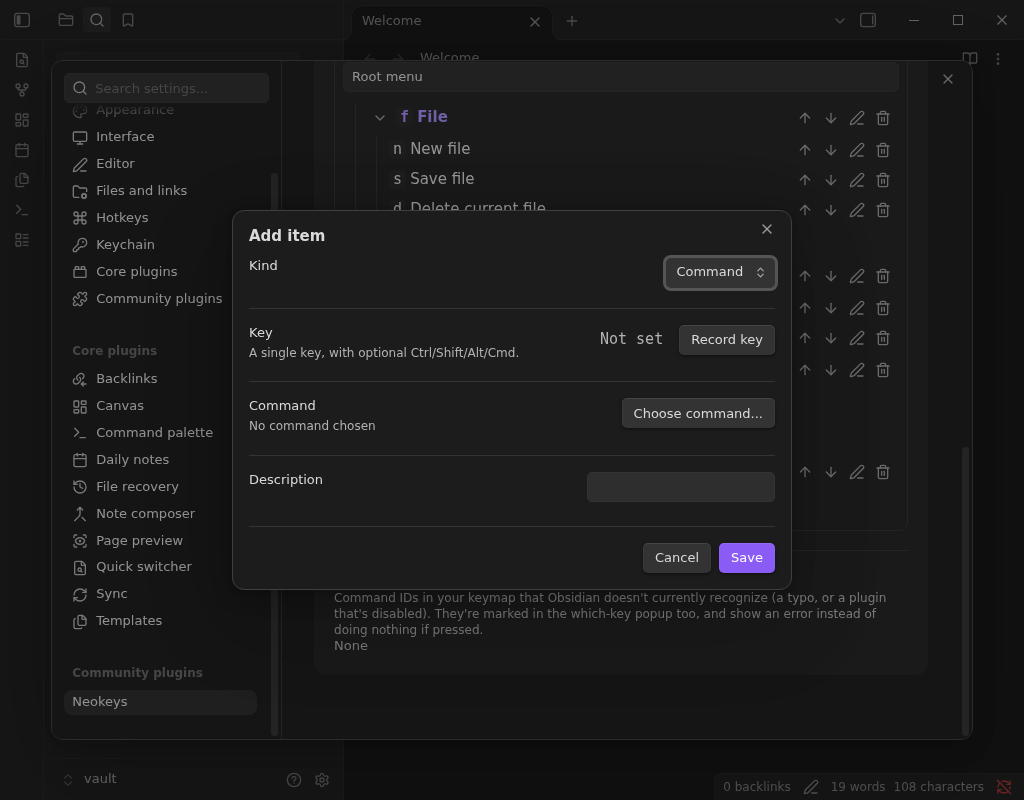
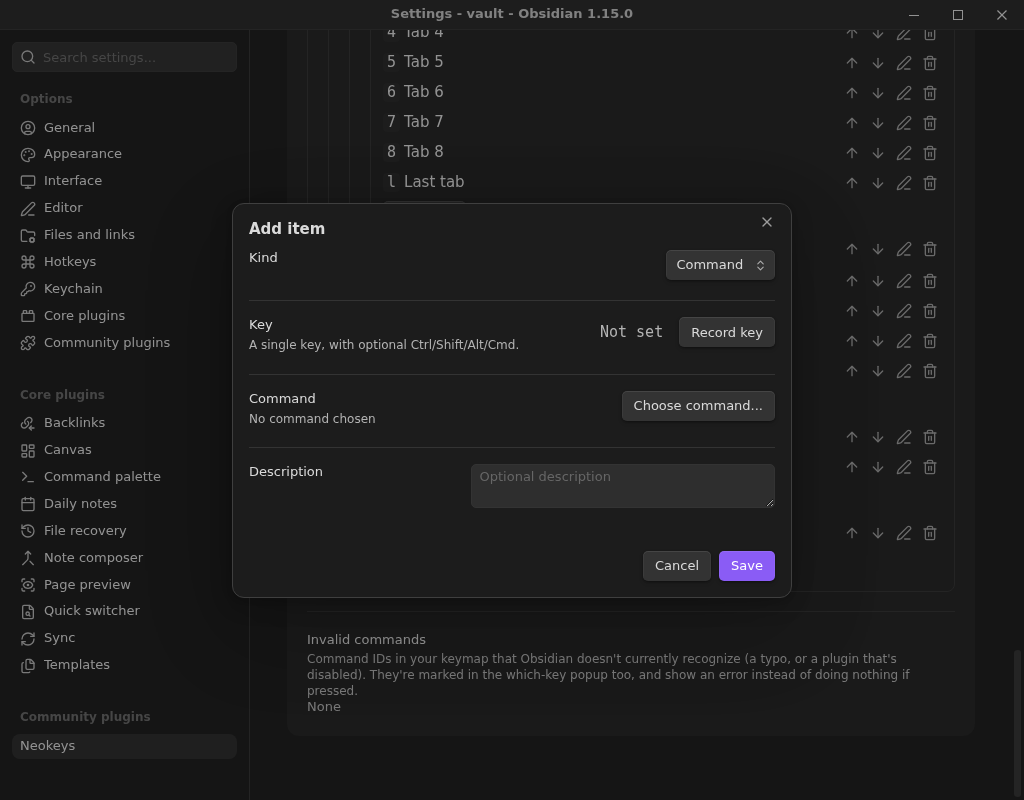
Release 0.1.3 (#16)
* Fix add item dialog layout bugs (Obsidian-native cleanup)

Only show the Kind description row when a lock reason exists, move
Cancel/Save into the standard modal-button-container footer instead of
a Setting row, only create the error div when there's an error to
show, and give Description a placeholder while widening it so it no
longer truncates existing text.

* no-mistakes(test): Wrap Description in a textarea so long text isn't cut off

* no-mistakes(document): Recapture Edit/Add item dialog screenshots and fix caption

* Keep the key display on one line

The "Not set" / recorded-key text next to the Record key button could
wrap onto two lines at the dialog's normal width.

* Fix keymap group collapse buttons not hiding children

The collapse toggle correctly tracked state and flipped the chevron
icon, but .neokeys-tree-items and .neokeys-hidden had equal CSS
specificity, so whichever rule was declared later in styles.css won
the cascade tie regardless of which class was toggled - leaving a
"collapsed" group's children visible. Add the missing compound
selector alongside the existing ones for the YAML/tree container
toggle.

* chore: bump version to 0.1.3

diff --git a/src/ui/entryEditorModal.ts b/src/ui/entryEditorModal.ts
@@ -32,7 +32,8 @@ export class EntryEditorModal extends Modal {
 	private command = "";
 	private commandName = "";
 	private file = "";
-	private errorEl!: HTMLElement;
+	private errorEl: HTMLElement | null = null;
+	private buttonContainerEl!: HTMLElement;
 	private keyDisplayEl!: HTMLElement;
 	private stopRecording: (() => void) | null = null;
 
@@ -73,22 +74,24 @@ export class EntryEditorModal extends Modal {
 	private render(): void {
 		const { contentEl } = this;
 		contentEl.empty();
+		this.errorEl = null;
 
-		new Setting(contentEl)
-			.setName("Kind")
-			.setDesc(this.kindLockedReason ?? "")
-			.addDropdown((dd) =>
-				dd
-					.addOption("group", "Group (submenu)")
-					.addOption("command", "Command")
-					.addOption("file", "File")
-					.setValue(this.kind)
-					.setDisabled(this.kindLockedReason !== undefined)
-					.onChange((value) => {
-						this.kind = value as EntryKind;
-						this.render();
-					}),
-			);
+		const kindSetting = new Setting(contentEl).setName("Kind");
+		if (this.kindLockedReason !== undefined) {
+			kindSetting.setDesc(this.kindLockedReason);
+		}
+		kindSetting.addDropdown((dd) =>
+			dd
+				.addOption("group", "Group (submenu)")
+				.addOption("command", "Command")
+				.addOption("file", "File")
+				.setValue(this.kind)
+				.setDisabled(this.kindLockedReason !== undefined)
+				.onChange((value) => {
+					this.kind = value as EntryKind;
+					this.render();
+				}),
+		);
 
 		const keySetting = new Setting(contentEl)
 			.setName("Key")
@@ -131,18 +134,30 @@ export class EntryEditorModal extends Modal {
 
 		new Setting(contentEl)
 			.setName("Description")
-			.addText((text) => text.setValue(this.description).onChange((value) => (this.description = value)));
+			.addTextArea((text) => {
+				text
+					.setPlaceholder("Optional description")
+					.setValue(this.description)
+					.onChange((value) => (this.description = value));
+				// A textarea wraps, so long existing descriptions are shown in full instead of cut off.
+				text.inputEl.rows = 2;
+				text.inputEl.addClass("neokeys-entry-description-input");
+			});
 
-		this.errorEl = contentEl.createDiv({ cls: "neokeys-entry-editor-error" });
+		this.buttonContainerEl = contentEl.createDiv({ cls: "modal-button-container" });
+		new ButtonComponent(this.buttonContainerEl).setButtonText("Cancel").onClick(() => this.close());
+		new ButtonComponent(this.buttonContainerEl)
+			.setButtonText("Save")
+			.setCta()
+			.onClick(() => this.submit());
+	}
 
-		new Setting(contentEl)
-			.addButton((button) => button.setButtonText("Cancel").onClick(() => this.close()))
-			.addButton((button) =>
-				button
-					.setButtonText("Save")
-					.setCta()
-					.onClick(() => this.submit()),
-			);
+	private showError(message: string): void {
+		if (!this.errorEl) {
+			this.errorEl = this.contentEl.createDiv({ cls: "neokeys-entry-editor-error" });
+			this.contentEl.insertBefore(this.errorEl, this.buttonContainerEl);
+		}
+		this.errorEl.setText(message);
 	}
 
 	private startRecording(button: ButtonComponent): void {
@@ -181,15 +196,15 @@ export class EntryEditorModal extends Modal {
 
 	private submit(): void {
 		if (this.rawKey.trim().length === 0) {
-			this.errorEl.setText("Set a key first.");
+			this.showError("Set a key first.");
 			return;
 		}
 		if (this.kind === "command" && this.command.trim().length === 0) {
-			this.errorEl.setText("Choose a command first.");
+			this.showError("Choose a command first.");
 			return;
 		}
 		if (this.kind === "file" && this.file.trim().length === 0) {
-			this.errorEl.setText("Set a file path first.");
+			this.showError("Set a file path first.");
 			return;
 		}
 
@@ -205,7 +220,7 @@ export class EntryEditorModal extends Modal {
 
 		const error = this.onSubmit(draft);
 		if (error) {
-			this.errorEl.setText(error);
+			this.showError(error);
 			return;
 		}
 		this.close();

diff --git a/tests/stylesCollapse.test.ts b/tests/stylesCollapse.test.ts
@@ -1,0 +1,67 @@
+import { readFileSync } from "node:fs";
+import { join } from "node:path";
+
+interface CssRule {
+	classes: string[];
+	display: string | undefined;
+	order: number;
+}
+
+/**
+ * Parses the subset of CSS this stylesheet actually uses - comma-separated selector lists of
+ * plain class chains (e.g. ".a.b"), no combinators, no @media, no !important - just enough to
+ * resolve which rule's `display` wins the cascade for an element carrying a given set of classes.
+ */
+function parseRules(css: string): CssRule[] {
+	const withoutComments = css.replace(/\/\*[\s\S]*?\*\//g, "");
+	const rules: CssRule[] = [];
+	let order = 0;
+	for (const match of withoutComments.matchAll(/([^{}]+)\{([^{}]*)\}/g)) {
+		const selectorList = match[1];
+		const body = match[2];
+		const displayMatch = body.match(/display\s*:\s*([^;]+);/);
+		const display = displayMatch ? displayMatch[1].trim() : undefined;
+		for (const rawSelector of selectorList.split(",")) {
+			const selector = rawSelector.trim();
+			if (selector.length === 0) continue;
+			const classMatches = [...selector.matchAll(/\.([\w-]+)/g)];
+			const isPlainClassChain = classMatches.map((m) => m[0]).join("") === selector;
+			if (!isPlainClassChain) continue;
+			rules.push({ classes: classMatches.map((m) => m[1]), display, order: order++ });
+		}
+	}
+	return rules;
+}
+
+/** Cascade resolution: highest specificity wins; a later rule wins a tie, exactly like a browser. */
+function resolveDisplay(rules: CssRule[], elementClasses: string[]): string | undefined {
+	const elementClassSet = new Set(elementClasses);
+	const matching = rules.filter((rule) => rule.classes.every((c) => elementClassSet.has(c)));
+	let winner: CssRule | undefined;
+	for (const rule of matching) {
+		if (rule.display === undefined) continue;
+		if (
+			!winner ||
+			rule.classes.length > winner.classes.length ||
+			(rule.classes.length === winner.classes.length && rule.order > winner.order)
+		) {
+			winner = rule;
+		}
+	}
+	return winner?.display;
+}
+
+describe("keymap tree collapse CSS", () => {
+	const css = readFileSync(join(__dirname, "..", "styles.css"), "utf8");
+	const rules = parseRules(css);
+
+	it("hides a collapsed group's items (neokeys-tree-items.neokeys-hidden wins the cascade)", () => {
+		const display = resolveDisplay(rules, ["neokeys-tree-items", "neokeys-hidden"]);
+		expect(display).toBe("none");
+	});
+
+	it("still shows an expanded group's items as flex", () => {
+		const display = resolveDisplay(rules, ["neokeys-tree-items"]);
+		expect(display).toBe("flex");
+	});
+});

diff --git a/styles.css b/styles.css
@@ -280,7 +280,8 @@
  * left the YAML textarea visible (though not interactive) underneath the tree view.
  */
 .neokeys-yaml-container.neokeys-hidden,
-.neokeys-tree-container.neokeys-hidden {
+.neokeys-tree-container.neokeys-hidden,
+.neokeys-tree-items.neokeys-hidden {
 	display: none;
 }
 
@@ -393,6 +394,12 @@
 	font-family: var(--font-monospace);
 	color: var(--text-muted);
 	margin-right: var(--size-4-2);
+	white-space: nowrap;
+}
+
+.neokeys-entry-description-input {
+	width: 100%;
+	resize: vertical;
 }
 
 .neokeys-entry-editor-error {

diff --git a/README.md b/README.md
@@ -88,7 +88,7 @@ overwriting the tree.
 
 ![Tree editor showing a nested keymap, with move/edit/delete controls per item](docs/screenshots/phase2/tree-editor-overview-dark.png)
 
-![Tree editor's Edit dialog for a group, with its title and description editable in full width](docs/screenshots/phase2/tree-editor-group-edit-dialog-light.png)
+![Tree editor's Edit dialog for a group, with its kind locked while it has items and its full description shown in a wrapping text box](docs/screenshots/phase2/tree-editor-group-edit-dialog-light.png)
 
 The which-key popup shows a group's entries in the order you arrange them in the tree editor (or
 write them in the YAML's `items`) - reordering an item moves it in the popup too, not just in the
